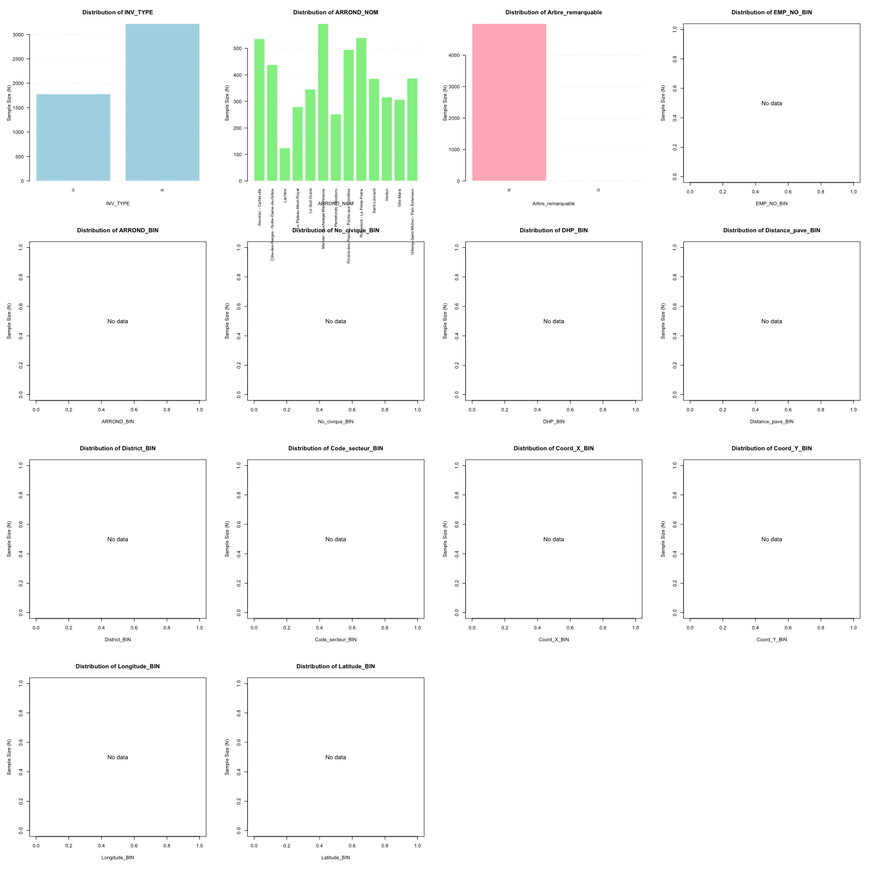
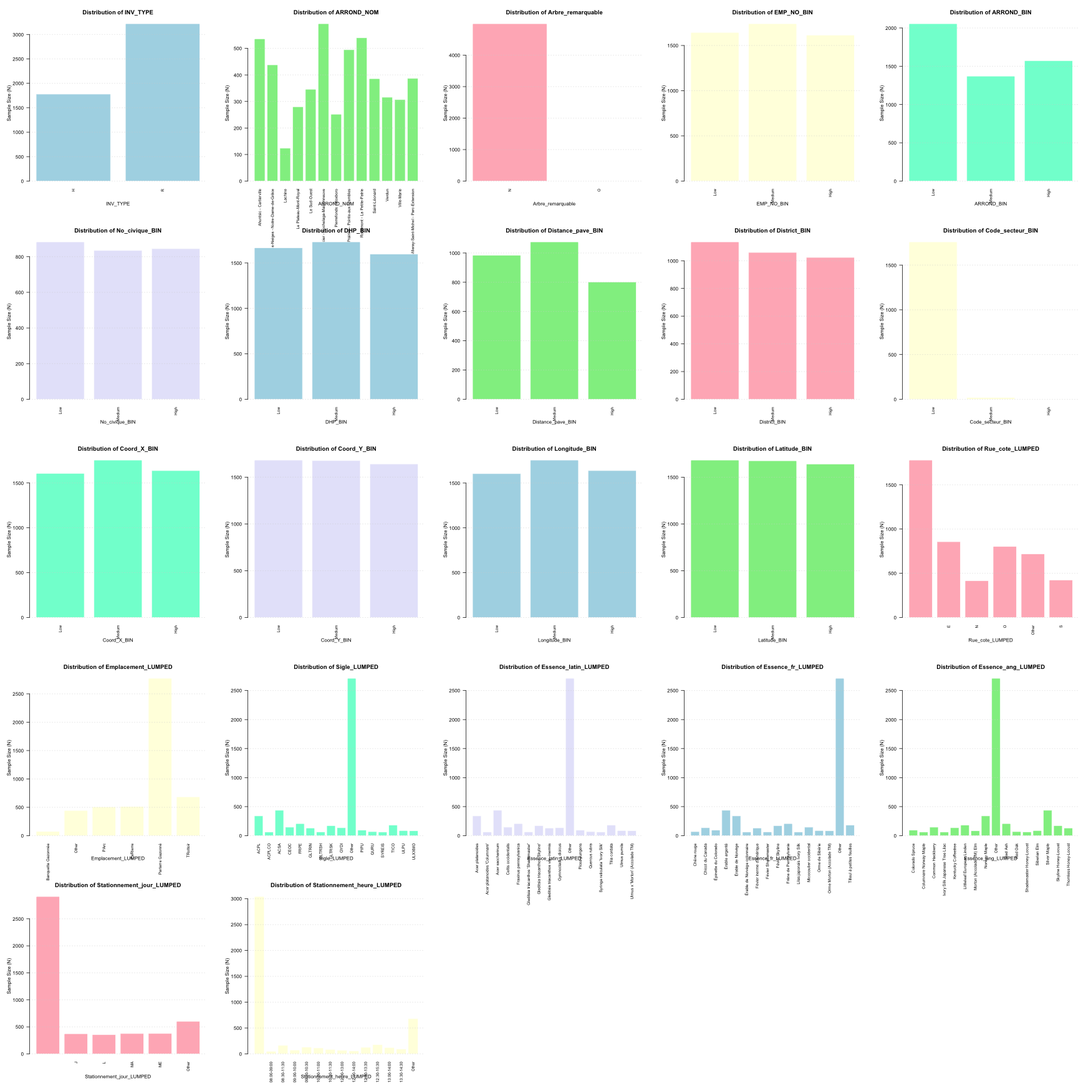
Increase lumping cap to 1000 to include tree species (Essence_fr/Essence_latin)

diff --git a/gen/arbres-publics_audit_report.md b/gen/arbres-publics_audit_report.md
@@ -1,13 +1,13 @@
 # SQL Data Quality and Behavior Analysis Lab Report: arbres-publics
 
-**Report Generated on:** 2026-07-21 15:50:22.394136
+**Report Generated on:** 2026-07-21 17:04:00.456668
 **Source Dataset:** `arbres-publics.csv`
 **Auditor Classification Status:** MINOR ANOMALY DETECTED 🟡
 
 ---
 
 ## Abstract
-This report presents a controlled statistical audit of the SQL database query results comprising 334680 samples and 33 features. Using [Multivariate Analysis of Variance (MANOVA)](https://en.wikipedia.org/wiki/Multivariate_analysis_of_variance), [K-Means clustering](https://en.wikipedia.org/wiki/K-means_clustering), and correlation-matrix collinearity tests, we investigate the structure of the retrieved dataset. The objective is to identify potential query design flaws (such as duplicate joins, cross joins, and hardcoded values) and characterize the underlying tree population profiles. Our findings show that the dataset has a classification status of **MINOR ANOMALY DETECTED 🟡**. We detail actionable recommendations for query optimizations based on detected data anomalies.
+This report presents a controlled statistical audit of the database query results comprising 334680 samples and 33 features. Using [Multivariate Analysis of Variance (MANOVA)](https://en.wikipedia.org/wiki/Multivariate_analysis_of_variance), [K-Means clustering](https://en.wikipedia.org/wiki/K-means_clustering), and correlation-matrix collinearity tests, we investigate the structure of the retrieved dataset. The objective is to identify potential query design flaws (such as duplicate joins, cross joins, and hardcoded values) and characterize the underlying tree population profiles. Our findings show that the dataset has a classification status of **MINOR ANOMALY DETECTED 🟡**. We detail actionable recommendations for query optimizations based on detected data anomalies.
 
 ## 1. Introduction and Hypotheses
 In database engineering and agentic data pipelines, query errors often manifest as subtle statistical anomalies (e.g. artificial correlation due to duplicate joins or zero variance due to cross joins) rather than outright syntax failures. We formally evaluate the following hypotheses:
@@ -31,6 +31,79 @@ The demographic distribution of the sample is detailed below:
 | **ARROND_NOM** | Côte-des-Neiges - Notre-Dame-de-Grâce | 438 | 8.76% |
 | **Arbre_remarquable** | N | 4999 | 99.98% |
 | **Arbre_remarquable** | O | 1 | 0.02% |
+| **EMP_NO_BIN** | Medium | 1741 | 34.82% |
+| **EMP_NO_BIN** | Low | 1644 | 32.88% |
+| **EMP_NO_BIN** | High | 1615 | 32.30% |
+| **ARROND_BIN** | Low | 2056 | 41.12% |
+| **ARROND_BIN** | High | 1573 | 31.46% |
+| **ARROND_BIN** | Medium | 1371 | 27.42% |
+| **No_civique_BIN** | Low | 883 | 17.66% |
+| **No_civique_BIN** | High | 845 | 16.90% |
+| **No_civique_BIN** | Medium | 835 | 16.70% |
+| **DHP_BIN** | Medium | 1732 | 34.64% |
+| **DHP_BIN** | Low | 1667 | 33.34% |
+| **DHP_BIN** | High | 1598 | 31.96% |
+| **Distance_pave_BIN** | Medium | 1076 | 21.52% |
+| **Distance_pave_BIN** | Low | 985 | 19.70% |
+| **Distance_pave_BIN** | High | 802 | 16.04% |
+| **District_BIN** | Low | 1136 | 22.72% |
+| **District_BIN** | Medium | 1060 | 21.20% |
+| **District_BIN** | High | 1024 | 20.48% |
+| **Code_secteur_BIN** | Low | 1759 | 35.18% |
+| **Code_secteur_BIN** | Medium | 20 | 0.40% |
+| **Code_secteur_BIN** | High | 1 | 0.02% |
+| **Coord_X_BIN** | Medium | 1755 | 35.10% |
+| **Coord_X_BIN** | High | 1638 | 32.76% |
+| **Coord_X_BIN** | Low | 1607 | 32.14% |
+| **Coord_Y_BIN** | Low | 1682 | 33.64% |
+| **Coord_Y_BIN** | Medium | 1677 | 33.54% |
+| **Coord_Y_BIN** | High | 1641 | 32.82% |
+| **Longitude_BIN** | Medium | 1756 | 35.12% |
+| **Longitude_BIN** | High | 1639 | 32.78% |
+| **Longitude_BIN** | Low | 1605 | 32.10% |
+| **Latitude_BIN** | Low | 1683 | 33.66% |
+| **Latitude_BIN** | Medium | 1676 | 33.52% |
+| **Latitude_BIN** | High | 1641 | 32.82% |
+| **Rue_cote_LUMPED** |  | NA | NA% |
+| **Rue_cote_LUMPED** | E | 857 | 17.14% |
+| **Rue_cote_LUMPED** | O | 804 | 16.08% |
+| **Rue_cote_LUMPED** | Other | 719 | 14.38% |
+| **Rue_cote_LUMPED** | S | 424 | 8.48% |
+| **Emplacement_LUMPED** | Parterre Gazonné | 2774 | 55.48% |
+| **Emplacement_LUMPED** | TRottoir | 685 | 13.70% |
+| **Emplacement_LUMPED** | PaRterre | 514 | 10.28% |
+| **Emplacement_LUMPED** | PArc | 508 | 10.16% |
+| **Emplacement_LUMPED** | Other | 444 | 8.88% |
+| **Sigle_LUMPED** | Other | 2711 | 54.22% |
+| **Sigle_LUMPED** | ACSA | 438 | 8.76% |
+| **Sigle_LUMPED** | ACPL | 341 | 6.82% |
+| **Sigle_LUMPED** | FRPE | 208 | 4.16% |
+| **Sigle_LUMPED** | TICO | 183 | 3.66% |
+| **Essence_latin_LUMPED** | Other | 2711 | 54.22% |
+| **Essence_latin_LUMPED** | Acer saccharinum | 438 | 8.76% |
+| **Essence_latin_LUMPED** | Acer platanoides | 341 | 6.82% |
+| **Essence_latin_LUMPED** | Fraxinus pennsylvanica | 208 | 4.16% |
+| **Essence_latin_LUMPED** | Tilia cordata | 183 | 3.66% |
+| **Essence_fr_LUMPED** | Other | 2711 | 54.22% |
+| **Essence_fr_LUMPED** | Érable argenté | 438 | 8.76% |
+| **Essence_fr_LUMPED** | Érable de Norvège | 341 | 6.82% |
+| **Essence_fr_LUMPED** | Frêne de Pennsylvanie | 208 | 4.16% |
+| **Essence_fr_LUMPED** | Tilleul à petites feuilles | 183 | 3.66% |
+| **Essence_ang_LUMPED** | Other | 2711 | 54.22% |
+| **Essence_ang_LUMPED** | Silver Maple | 438 | 8.76% |
+| **Essence_ang_LUMPED** | Norway Maple | 341 | 6.82% |
+| **Essence_ang_LUMPED** | Red Ash | 208 | 4.16% |
+| **Essence_ang_LUMPED** | Littleleaf European Linden | 183 | 3.66% |
+| **Stationnement_jour_LUMPED** |  | NA | NA% |
+| **Stationnement_jour_LUMPED** | Other | 603 | 12.06% |
+| **Stationnement_jour_LUMPED** | ME | 378 | 7.56% |
+| **Stationnement_jour_LUMPED** | MA | 377 | 7.54% |
+| **Stationnement_jour_LUMPED** | J | 373 | 7.46% |
+| **Stationnement_heure_LUMPED** |  | NA | NA% |
+| **Stationnement_heure_LUMPED** | Other | 682 | 13.64% |
+| **Stationnement_heure_LUMPED** | 12:30-15:30 | 179 | 3.58% |
+| **Stationnement_heure_LUMPED** | 08:30-11:30 | 165 | 3.30% |
+| **Stationnement_heure_LUMPED** | 09:30-10:30 | 131 | 2.62% |
 
 Figure 3 presents the sample size distributions across each independent categorical variable to evaluate demographic coverage and statistical power:
 
@@ -48,7 +121,7 @@ To profile user choice dynamics, click patterns, and decision hesitation (Pongra
 
 ### Experimental Design
 We define a mixed multivariate design incorporating:
-* **Independent Variables (Factors)**: `INV_TYPE`, `ARROND_NOM`, `Arbre_remarquable`
+* **Independent Variables (Factors)**: `INV_TYPE`, `ARROND_NOM`, `Arbre_remarquable`, `EMP_NO_BIN`, `ARROND_BIN`, `No_civique_BIN`, `DHP_BIN`, `Distance_pave_BIN`, `District_BIN`, `Code_secteur_BIN`, `Coord_X_BIN`, `Coord_Y_BIN`, `Longitude_BIN`, `Latitude_BIN`, `Rue_cote_LUMPED`, `Emplacement_LUMPED`, `Sigle_LUMPED`, `Essence_latin_LUMPED`, `Essence_fr_LUMPED`, `Essence_ang_LUMPED`, `Stationnement_jour_LUMPED`, `Stationnement_heure_LUMPED`
 * **Dependent Variables (Metrics)**: `EMP_NO`, `ARROND`, `No_civique`, `DHP`, `Distance_pave`, `District`, `Code_secteur`, `Coord_X`, `Coord_Y`, `Longitude`, `Latitude`
 
 
@@ -75,25 +148,190 @@ No MANOVA tests could be computed.
 #### ANOVA Outputs (Significant Univariate Groupings)
 We evaluated individual [univariate Analysis of Variance (ANOVA)](https://en.wikipedia.org/wiki/Analysis_of_variance) models for each continuous metric. The following factors show statistically significant differences (p < 0.05) in group means:
 
-- **Significant variation in 'EMP_NO' grouped by 'INV_TYPE'**: F = `556.3986`, p = `9.890642e-117`
-- **Significant variation in 'EMP_NO' grouped by 'ARROND_NOM'**: F = `21.8104`, p = `1.050706e-47`
-- **Significant variation in 'ARROND' grouped by 'INV_TYPE'**: F = `23.5452`, p = `1.257229e-06`
-- **Significant variation in 'ARROND' grouped by 'ARROND_NOM'**: F = `60529787028191640196183228416.0000`, p = `0.000000e+00`
-- **Significant variation in 'No_civique' grouped by 'ARROND_NOM'**: F = `143.9682`, p = `1.105094e-275`
-- **Significant variation in 'DHP' grouped by 'INV_TYPE'**: F = `7.1071`, p = `7.702508e-03`
-- **Significant variation in 'DHP' grouped by 'ARROND_NOM'**: F = `12.6053`, p = `8.385201e-26`
-- **Significant variation in 'District' grouped by 'ARROND_NOM'**: F = `7604.5027`, p = `0.000000e+00`
-- **Significant variation in 'Code_secteur' grouped by 'ARROND_NOM'**: F = `10.1795`, p = `1.258907e-19`
-- **Significant variation in 'Coord_X' grouped by 'ARROND_NOM'**: F = `4185.7391`, p = `0.000000e+00`
-- **Significant variation in 'Coord_Y' grouped by 'ARROND_NOM'**: F = `5710.6946`, p = `0.000000e+00`
-- **Significant variation in 'Longitude' grouped by 'ARROND_NOM'**: F = `4179.3510`, p = `0.000000e+00`
-- **Significant variation in 'Latitude' grouped by 'ARROND_NOM'**: F = `5706.9610`, p = `0.000000e+00`
+- **Significant variation in 'EMP_NO' grouped by 'INV_TYPE'**: F = `556.3986`, p = `< 0.0001`
+- **Significant variation in 'EMP_NO' grouped by 'ARROND_NOM'**: F = `21.8104`, p = `< 0.0001`
+- **Significant variation in 'EMP_NO' grouped by 'ARROND_BIN'**: F = `93.0807`, p = `< 0.0001`
+- **Significant variation in 'EMP_NO' grouped by 'No_civique_BIN'**: F = `6.2424`, p = `0.0020`
+- **Significant variation in 'EMP_NO' grouped by 'DHP_BIN'**: F = `224.2719`, p = `< 0.0001`
+- **Significant variation in 'EMP_NO' grouped by 'Distance_pave_BIN'**: F = `3.8203`, p = `0.0220`
+- **Significant variation in 'EMP_NO' grouped by 'District_BIN'**: F = `47.4181`, p = `< 0.0001`
+- **Significant variation in 'EMP_NO' grouped by 'Coord_Y_BIN'**: F = `3.2263`, p = `0.0398`
+- **Significant variation in 'EMP_NO' grouped by 'Latitude_BIN'**: F = `3.3139`, p = `0.0365`
+- **Significant variation in 'EMP_NO' grouped by 'Rue_cote_LUMPED'**: F = `210.8289`, p = `< 0.0001`
+- **Significant variation in 'EMP_NO' grouped by 'Emplacement_LUMPED'**: F = `96.4981`, p = `< 0.0001`
+- **Significant variation in 'EMP_NO' grouped by 'Sigle_LUMPED'**: F = `14.3015`, p = `< 0.0001`
+- **Significant variation in 'EMP_NO' grouped by 'Essence_latin_LUMPED'**: F = `14.3015`, p = `< 0.0001`
+- **Significant variation in 'EMP_NO' grouped by 'Essence_fr_LUMPED'**: F = `14.3015`, p = `< 0.0001`
+- **Significant variation in 'EMP_NO' grouped by 'Essence_ang_LUMPED'**: F = `14.3015`, p = `< 0.0001`
+- **Significant variation in 'EMP_NO' grouped by 'Stationnement_jour_LUMPED'**: F = `2.6284`, p = `0.0222`
+- **Significant variation in 'EMP_NO' grouped by 'Stationnement_heure_LUMPED'**: F = `2.3902`, p = `0.0034`
+- **Significant variation in 'ARROND' grouped by 'INV_TYPE'**: F = `23.5452`, p = `< 0.0001`
+- **Significant variation in 'ARROND' grouped by 'ARROND_NOM'**: F = `60529787028191640196183228416.0000`, p = `< 0.0001`
+- **Significant variation in 'ARROND' grouped by 'EMP_NO_BIN'**: F = `252.0533`, p = `< 0.0001`
+- **Significant variation in 'ARROND' grouped by 'No_civique_BIN'**: F = `71.0541`, p = `< 0.0001`
+- **Significant variation in 'ARROND' grouped by 'DHP_BIN'**: F = `27.0944`, p = `< 0.0001`
+- **Significant variation in 'ARROND' grouped by 'Distance_pave_BIN'**: F = `12.5746`, p = `< 0.0001`
+- **Significant variation in 'ARROND' grouped by 'District_BIN'**: F = `240.4213`, p = `< 0.0001`
+- **Significant variation in 'ARROND' grouped by 'Coord_X_BIN'**: F = `26.6000`, p = `< 0.0001`
+- **Significant variation in 'ARROND' grouped by 'Coord_Y_BIN'**: F = `1734.2238`, p = `< 0.0001`
+- **Significant variation in 'ARROND' grouped by 'Longitude_BIN'**: F = `26.5035`, p = `< 0.0001`
+- **Significant variation in 'ARROND' grouped by 'Latitude_BIN'**: F = `1729.4045`, p = `< 0.0001`
+- **Significant variation in 'ARROND' grouped by 'Rue_cote_LUMPED'**: F = `617.1805`, p = `< 0.0001`
+- **Significant variation in 'ARROND' grouped by 'Emplacement_LUMPED'**: F = `62.6416`, p = `< 0.0001`
+- **Significant variation in 'ARROND' grouped by 'Sigle_LUMPED'**: F = `8.1884`, p = `< 0.0001`
+- **Significant variation in 'ARROND' grouped by 'Essence_latin_LUMPED'**: F = `8.1884`, p = `< 0.0001`
+- **Significant variation in 'ARROND' grouped by 'Essence_fr_LUMPED'**: F = `8.1884`, p = `< 0.0001`
+- **Significant variation in 'ARROND' grouped by 'Essence_ang_LUMPED'**: F = `8.1884`, p = `< 0.0001`
+- **Significant variation in 'ARROND' grouped by 'Stationnement_jour_LUMPED'**: F = `170.8500`, p = `< 0.0001`
+- **Significant variation in 'ARROND' grouped by 'Stationnement_heure_LUMPED'**: F = `62.0334`, p = `< 0.0001`
+- **Significant variation in 'No_civique' grouped by 'ARROND_NOM'**: F = `143.9682`, p = `< 0.0001`
+- **Significant variation in 'No_civique' grouped by 'EMP_NO_BIN'**: F = `66.5962`, p = `< 0.0001`
+- **Significant variation in 'No_civique' grouped by 'ARROND_BIN'**: F = `140.3707`, p = `< 0.0001`
+- **Significant variation in 'No_civique' grouped by 'DHP_BIN'**: F = `7.1941`, p = `0.0008`
+- **Significant variation in 'No_civique' grouped by 'Distance_pave_BIN'**: F = `65.0115`, p = `< 0.0001`
+- **Significant variation in 'No_civique' grouped by 'District_BIN'**: F = `237.6488`, p = `< 0.0001`
+- **Significant variation in 'No_civique' grouped by 'Coord_X_BIN'**: F = `117.8733`, p = `< 0.0001`
+- **Significant variation in 'No_civique' grouped by 'Coord_Y_BIN'**: F = `181.1530`, p = `< 0.0001`
+- **Significant variation in 'No_civique' grouped by 'Longitude_BIN'**: F = `117.8733`, p = `< 0.0001`
+- **Significant variation in 'No_civique' grouped by 'Latitude_BIN'**: F = `180.4687`, p = `< 0.0001`
+- **Significant variation in 'No_civique' grouped by 'Emplacement_LUMPED'**: F = `25.2752`, p = `< 0.0001`
+- **Significant variation in 'No_civique' grouped by 'Sigle_LUMPED'**: F = `4.1699`, p = `< 0.0001`
+- **Significant variation in 'No_civique' grouped by 'Essence_latin_LUMPED'**: F = `4.1699`, p = `< 0.0001`
+- **Significant variation in 'No_civique' grouped by 'Essence_fr_LUMPED'**: F = `4.1699`, p = `< 0.0001`
+- **Significant variation in 'No_civique' grouped by 'Essence_ang_LUMPED'**: F = `4.1699`, p = `< 0.0001`
+- **Significant variation in 'No_civique' grouped by 'Stationnement_jour_LUMPED'**: F = `17.3470`, p = `< 0.0001`
+- **Significant variation in 'No_civique' grouped by 'Stationnement_heure_LUMPED'**: F = `14.0538`, p = `< 0.0001`
+- **Significant variation in 'DHP' grouped by 'INV_TYPE'**: F = `7.1071`, p = `0.0077`
+- **Significant variation in 'DHP' grouped by 'ARROND_NOM'**: F = `12.6053`, p = `< 0.0001`
+- **Significant variation in 'DHP' grouped by 'EMP_NO_BIN'**: F = `161.1945`, p = `< 0.0001`
+- **Significant variation in 'DHP' grouped by 'No_civique_BIN'**: F = `4.2173`, p = `0.0148`
+- **Significant variation in 'DHP' grouped by 'Distance_pave_BIN'**: F = `62.7589`, p = `< 0.0001`
+- **Significant variation in 'DHP' grouped by 'Coord_X_BIN'**: F = `11.4573`, p = `< 0.0001`
+- **Significant variation in 'DHP' grouped by 'Coord_Y_BIN'**: F = `5.1086`, p = `0.0061`
+- **Significant variation in 'DHP' grouped by 'Longitude_BIN'**: F = `11.7207`, p = `< 0.0001`
+- **Significant variation in 'DHP' grouped by 'Latitude_BIN'**: F = `5.1611`, p = `0.0058`
+- **Significant variation in 'DHP' grouped by 'Rue_cote_LUMPED'**: F = `9.2505`, p = `< 0.0001`
+- **Significant variation in 'DHP' grouped by 'Emplacement_LUMPED'**: F = `43.6527`, p = `< 0.0001`
+- **Significant variation in 'DHP' grouped by 'Sigle_LUMPED'**: F = `201.6380`, p = `< 0.0001`
+- **Significant variation in 'DHP' grouped by 'Essence_latin_LUMPED'**: F = `201.6380`, p = `< 0.0001`
+- **Significant variation in 'DHP' grouped by 'Essence_fr_LUMPED'**: F = `201.6380`, p = `< 0.0001`
+- **Significant variation in 'DHP' grouped by 'Essence_ang_LUMPED'**: F = `201.6380`, p = `< 0.0001`
+- **Significant variation in 'DHP' grouped by 'Stationnement_jour_LUMPED'**: F = `9.2164`, p = `< 0.0001`
+- **Significant variation in 'DHP' grouped by 'Stationnement_heure_LUMPED'**: F = `4.6759`, p = `< 0.0001`
+- **Significant variation in 'Distance_pave' grouped by 'EMP_NO_BIN'**: F = `16.7250`, p = `< 0.0001`
+- **Significant variation in 'Distance_pave' grouped by 'ARROND_BIN'**: F = `39.0389`, p = `< 0.0001`
+- **Significant variation in 'Distance_pave' grouped by 'No_civique_BIN'**: F = `22.6613`, p = `< 0.0001`
+- **Significant variation in 'Distance_pave' grouped by 'DHP_BIN'**: F = `12.1087`, p = `< 0.0001`
+- **Significant variation in 'Distance_pave' grouped by 'District_BIN'**: F = `43.5096`, p = `< 0.0001`
+- **Significant variation in 'Distance_pave' grouped by 'Coord_X_BIN'**: F = `32.6261`, p = `< 0.0001`
+- **Significant variation in 'Distance_pave' grouped by 'Coord_Y_BIN'**: F = `57.3166`, p = `< 0.0001`
+- **Significant variation in 'Distance_pave' grouped by 'Longitude_BIN'**: F = `32.6261`, p = `< 0.0001`
+- **Significant variation in 'Distance_pave' grouped by 'Latitude_BIN'**: F = `57.0886`, p = `< 0.0001`
+- **Significant variation in 'Distance_pave' grouped by 'Emplacement_LUMPED'**: F = `221.7752`, p = `< 0.0001`
+- **Significant variation in 'Distance_pave' grouped by 'Sigle_LUMPED'**: F = `7.3136`, p = `< 0.0001`
+- **Significant variation in 'Distance_pave' grouped by 'Essence_latin_LUMPED'**: F = `7.3136`, p = `< 0.0001`
+- **Significant variation in 'Distance_pave' grouped by 'Essence_fr_LUMPED'**: F = `7.3136`, p = `< 0.0001`
+- **Significant variation in 'Distance_pave' grouped by 'Essence_ang_LUMPED'**: F = `7.3136`, p = `< 0.0001`
+- **Significant variation in 'Distance_pave' grouped by 'Stationnement_jour_LUMPED'**: F = `18.9677`, p = `< 0.0001`
+- **Significant variation in 'Distance_pave' grouped by 'Stationnement_heure_LUMPED'**: F = `8.3513`, p = `< 0.0001`
+- **Significant variation in 'District' grouped by 'ARROND_NOM'**: F = `7604.5027`, p = `< 0.0001`
+- **Significant variation in 'District' grouped by 'EMP_NO_BIN'**: F = `184.5599`, p = `< 0.0001`
+- **Significant variation in 'District' grouped by 'ARROND_BIN'**: F = `288.9067`, p = `< 0.0001`
+- **Significant variation in 'District' grouped by 'No_civique_BIN'**: F = `312.8267`, p = `< 0.0001`
+- **Significant variation in 'District' grouped by 'Distance_pave_BIN'**: F = `53.9479`, p = `< 0.0001`
+- **Significant variation in 'District' grouped by 'Coord_X_BIN'**: F = `656.2291`, p = `< 0.0001`
+- **Significant variation in 'District' grouped by 'Coord_Y_BIN'**: F = `4.2378`, p = `0.0145`
+- **Significant variation in 'District' grouped by 'Longitude_BIN'**: F = `656.2291`, p = `< 0.0001`
+- **Significant variation in 'District' grouped by 'Latitude_BIN'**: F = `4.4003`, p = `0.0123`
+- **Significant variation in 'District' grouped by 'Emplacement_LUMPED'**: F = `57.6220`, p = `< 0.0001`
+- **Significant variation in 'District' grouped by 'Sigle_LUMPED'**: F = `5.2506`, p = `< 0.0001`
+- **Significant variation in 'District' grouped by 'Essence_latin_LUMPED'**: F = `5.2506`, p = `< 0.0001`
+- **Significant variation in 'District' grouped by 'Essence_fr_LUMPED'**: F = `5.2506`, p = `< 0.0001`
+- **Significant variation in 'District' grouped by 'Essence_ang_LUMPED'**: F = `5.2506`, p = `< 0.0001`
+- **Significant variation in 'District' grouped by 'Stationnement_jour_LUMPED'**: F = `67.1759`, p = `< 0.0001`
+- **Significant variation in 'District' grouped by 'Stationnement_heure_LUMPED'**: F = `90.9015`, p = `< 0.0001`
+- **Significant variation in 'Code_secteur' grouped by 'ARROND_NOM'**: F = `10.1795`, p = `< 0.0001`
+- **Significant variation in 'Code_secteur' grouped by 'EMP_NO_BIN'**: F = `72.4838`, p = `< 0.0001`
+- **Significant variation in 'Code_secteur' grouped by 'Coord_X_BIN'**: F = `16.5511`, p = `< 0.0001`
+- **Significant variation in 'Code_secteur' grouped by 'Coord_Y_BIN'**: F = `13.5298`, p = `< 0.0001`
+- **Significant variation in 'Code_secteur' grouped by 'Longitude_BIN'**: F = `16.4524`, p = `< 0.0001`
+- **Significant variation in 'Code_secteur' grouped by 'Latitude_BIN'**: F = `13.5298`, p = `< 0.0001`
+- **Significant variation in 'Coord_X' grouped by 'ARROND_NOM'**: F = `4185.7391`, p = `< 0.0001`
+- **Significant variation in 'Coord_X' grouped by 'EMP_NO_BIN'**: F = `41.2464`, p = `< 0.0001`
+- **Significant variation in 'Coord_X' grouped by 'ARROND_BIN'**: F = `53.1720`, p = `< 0.0001`
+- **Significant variation in 'Coord_X' grouped by 'No_civique_BIN'**: F = `71.9828`, p = `< 0.0001`
+- **Significant variation in 'Coord_X' grouped by 'Distance_pave_BIN'**: F = `27.8151`, p = `< 0.0001`
+- **Significant variation in 'Coord_X' grouped by 'District_BIN'**: F = `340.0794`, p = `< 0.0001`
+- **Significant variation in 'Coord_X' grouped by 'Coord_Y_BIN'**: F = `506.4381`, p = `< 0.0001`
+- **Significant variation in 'Coord_X' grouped by 'Longitude_BIN'**: F = `3939.3440`, p = `< 0.0001`
+- **Significant variation in 'Coord_X' grouped by 'Latitude_BIN'**: F = `507.2800`, p = `< 0.0001`
+- **Significant variation in 'Coord_X' grouped by 'Rue_cote_LUMPED'**: F = `70.3664`, p = `< 0.0001`
+- **Significant variation in 'Coord_X' grouped by 'Emplacement_LUMPED'**: F = `42.5785`, p = `< 0.0001`
+- **Significant variation in 'Coord_X' grouped by 'Sigle_LUMPED'**: F = `6.9014`, p = `< 0.0001`
+- **Significant variation in 'Coord_X' grouped by 'Essence_latin_LUMPED'**: F = `6.9014`, p = `< 0.0001`
+- **Significant variation in 'Coord_X' grouped by 'Essence_fr_LUMPED'**: F = `6.9014`, p = `< 0.0001`
+- **Significant variation in 'Coord_X' grouped by 'Essence_ang_LUMPED'**: F = `6.9014`, p = `< 0.0001`
+- **Significant variation in 'Coord_X' grouped by 'Stationnement_jour_LUMPED'**: F = `36.2581`, p = `< 0.0001`
+- **Significant variation in 'Coord_X' grouped by 'Stationnement_heure_LUMPED'**: F = `25.5647`, p = `< 0.0001`
+- **Significant variation in 'Coord_Y' grouped by 'ARROND_NOM'**: F = `5710.6946`, p = `< 0.0001`
+- **Significant variation in 'Coord_Y' grouped by 'EMP_NO_BIN'**: F = `28.1538`, p = `< 0.0001`
+- **Significant variation in 'Coord_Y' grouped by 'ARROND_BIN'**: F = `722.7820`, p = `< 0.0001`
+- **Significant variation in 'Coord_Y' grouped by 'No_civique_BIN'**: F = `200.1028`, p = `< 0.0001`
+- **Significant variation in 'Coord_Y' grouped by 'DHP_BIN'**: F = `5.9280`, p = `0.0027`
+- **Significant variation in 'Coord_Y' grouped by 'Distance_pave_BIN'**: F = `48.5689`, p = `< 0.0001`
+- **Significant variation in 'Coord_Y' grouped by 'District_BIN'**: F = `1016.5072`, p = `< 0.0001`
+- **Significant variation in 'Coord_Y' grouped by 'Coord_X_BIN'**: F = `327.4585`, p = `< 0.0001`
+- **Significant variation in 'Coord_Y' grouped by 'Longitude_BIN'**: F = `325.4719`, p = `< 0.0001`
+- **Significant variation in 'Coord_Y' grouped by 'Latitude_BIN'**: F = `11052.3947`, p = `< 0.0001`
+- **Significant variation in 'Coord_Y' grouped by 'Rue_cote_LUMPED'**: F = `32.2673`, p = `< 0.0001`
+- **Significant variation in 'Coord_Y' grouped by 'Emplacement_LUMPED'**: F = `17.7029`, p = `< 0.0001`
+- **Significant variation in 'Coord_Y' grouped by 'Sigle_LUMPED'**: F = `4.5766`, p = `< 0.0001`
+- **Significant variation in 'Coord_Y' grouped by 'Essence_latin_LUMPED'**: F = `4.5766`, p = `< 0.0001`
+- **Significant variation in 'Coord_Y' grouped by 'Essence_fr_LUMPED'**: F = `4.5766`, p = `< 0.0001`
+- **Significant variation in 'Coord_Y' grouped by 'Essence_ang_LUMPED'**: F = `4.5766`, p = `< 0.0001`
+- **Significant variation in 'Coord_Y' grouped by 'Stationnement_jour_LUMPED'**: F = `36.2717`, p = `< 0.0001`
+- **Significant variation in 'Coord_Y' grouped by 'Stationnement_heure_LUMPED'**: F = `11.6129`, p = `< 0.0001`
+- **Significant variation in 'Longitude' grouped by 'ARROND_NOM'**: F = `4179.3510`, p = `< 0.0001`
+- **Significant variation in 'Longitude' grouped by 'EMP_NO_BIN'**: F = `41.3655`, p = `< 0.0001`
+- **Significant variation in 'Longitude' grouped by 'ARROND_BIN'**: F = `53.1846`, p = `< 0.0001`
+- **Significant variation in 'Longitude' grouped by 'No_civique_BIN'**: F = `72.4493`, p = `< 0.0001`
+- **Significant variation in 'Longitude' grouped by 'Distance_pave_BIN'**: F = `27.8621`, p = `< 0.0001`
+- **Significant variation in 'Longitude' grouped by 'District_BIN'**: F = `340.5172`, p = `< 0.0001`
+- **Significant variation in 'Longitude' grouped by 'Coord_X_BIN'**: F = `3938.7159`, p = `< 0.0001`
+- **Significant variation in 'Longitude' grouped by 'Coord_Y_BIN'**: F = `504.2784`, p = `< 0.0001`
+- **Significant variation in 'Longitude' grouped by 'Latitude_BIN'**: F = `505.1161`, p = `< 0.0001`
+- **Significant variation in 'Longitude' grouped by 'Rue_cote_LUMPED'**: F = `70.2823`, p = `< 0.0001`
+- **Significant variation in 'Longitude' grouped by 'Emplacement_LUMPED'**: F = `42.6297`, p = `< 0.0001`
+- **Significant variation in 'Longitude' grouped by 'Sigle_LUMPED'**: F = `6.9019`, p = `< 0.0001`
+- **Significant variation in 'Longitude' grouped by 'Essence_latin_LUMPED'**: F = `6.9019`, p = `< 0.0001`
+- **Significant variation in 'Longitude' grouped by 'Essence_fr_LUMPED'**: F = `6.9019`, p = `< 0.0001`
+- **Significant variation in 'Longitude' grouped by 'Essence_ang_LUMPED'**: F = `6.9019`, p = `< 0.0001`
+- **Significant variation in 'Longitude' grouped by 'Stationnement_jour_LUMPED'**: F = `36.1739`, p = `< 0.0001`
+- **Significant variation in 'Longitude' grouped by 'Stationnement_heure_LUMPED'**: F = `25.5656`, p = `< 0.0001`
+- **Significant variation in 'Latitude' grouped by 'ARROND_NOM'**: F = `5706.9610`, p = `< 0.0001`
+- **Significant variation in 'Latitude' grouped by 'EMP_NO_BIN'**: F = `28.1379`, p = `< 0.0001`
+- **Significant variation in 'Latitude' grouped by 'ARROND_BIN'**: F = `720.5583`, p = `< 0.0001`
+- **Significant variation in 'Latitude' grouped by 'No_civique_BIN'**: F = `199.4310`, p = `< 0.0001`
+- **Significant variation in 'Latitude' grouped by 'DHP_BIN'**: F = `5.9257`, p = `0.0027`
+- **Significant variation in 'Latitude' grouped by 'Distance_pave_BIN'**: F = `48.4193`, p = `< 0.0001`
+- **Significant variation in 'Latitude' grouped by 'District_BIN'**: F = `1013.2219`, p = `< 0.0001`
+- **Significant variation in 'Latitude' grouped by 'Coord_X_BIN'**: F = `329.4697`, p = `< 0.0001`
+- **Significant variation in 'Latitude' grouped by 'Coord_Y_BIN'**: F = `11073.2950`, p = `< 0.0001`
+- **Significant variation in 'Latitude' grouped by 'Longitude_BIN'**: F = `327.4770`, p = `< 0.0001`
+- **Significant variation in 'Latitude' grouped by 'Rue_cote_LUMPED'**: F = `32.4302`, p = `< 0.0001`
+- **Significant variation in 'Latitude' grouped by 'Emplacement_LUMPED'**: F = `17.5808`, p = `< 0.0001`
+- **Significant variation in 'Latitude' grouped by 'Sigle_LUMPED'**: F = `4.5741`, p = `< 0.0001`
+- **Significant variation in 'Latitude' grouped by 'Essence_latin_LUMPED'**: F = `4.5741`, p = `< 0.0001`
+- **Significant variation in 'Latitude' grouped by 'Essence_fr_LUMPED'**: F = `4.5741`, p = `< 0.0001`
+- **Significant variation in 'Latitude' grouped by 'Essence_ang_LUMPED'**: F = `4.5741`, p = `< 0.0001`
+- **Significant variation in 'Latitude' grouped by 'Stationnement_jour_LUMPED'**: F = `36.3713`, p = `< 0.0001`
+- **Significant variation in 'Latitude' grouped by 'Stationnement_heure_LUMPED'**: F = `11.6520`, p = `< 0.0001`
 
 Figure 2 presents the pairwise scatterplots with a fitted linear regression line of best fit to visualize the correlation and linear relationships between these continuous metrics:
 
 ![Figure 2: Pairwise Scatterplots with Line of Fit](arbres-publics_scatterplots.png)
 
-### Tree Population Profiles (K-Means)
+### Tree Population Profile Profiles (K-Means)
 We standardized the numeric metrics and fitted a [K-Means clustering algorithm](https://en.wikipedia.org/wiki/K-means_clustering) ($k=2$) to identify distinct tree population profiles. To determine the optimal number of clusters programmatically, we performed a **[Silhouette Analysis](https://en.wikipedia.org/wiki/Silhouette_(clustering))** across candidate sizes of $k \in [2, 6]$. The optimal $k$ was selected by maximizing the average silhouette width (Rousseeuw, 1987), which measures cluster cohesion and separation. If the maximum average silhouette width was $\le 0.25$, indicating no substantial structure, the algorithm fell back to a single nominal cluster ($k=1$):
 
 | Persona Cluster | Order Count | Percentage (%) |
@@ -138,7 +376,7 @@ To reverse-engineer which original variables drive the principal component proje
 1. **[PCA](https://en.wikipedia.org/wiki/Principal_component_analysis) Cluster Space**: Represents the first two principal components. Good separation between color groups indicates distinct tree population profiles. If the points form tight, overlapping lines or grids, it indicates identical data replication bugs.
 2. **Correlation Heatmap**: Pairwise correlations between metrics. Strong colors indicate potential redundant attributes or duplicate join bugs.
 3. **Cluster Sizes**: Frequency counts across the discovered tree population profiles.
-4. **Boxplot of EMP_NO**: Shows the distribution of this metric across the clusters.
+4. **Boxplot of EMP_NO**: Shows the distribution of the primary outcome metric across the clusters.
 
 ## 5. Discussion and SQL Improvement Recommendations
 Based on the results, we recommend the following modifications to improve the SQL query:
